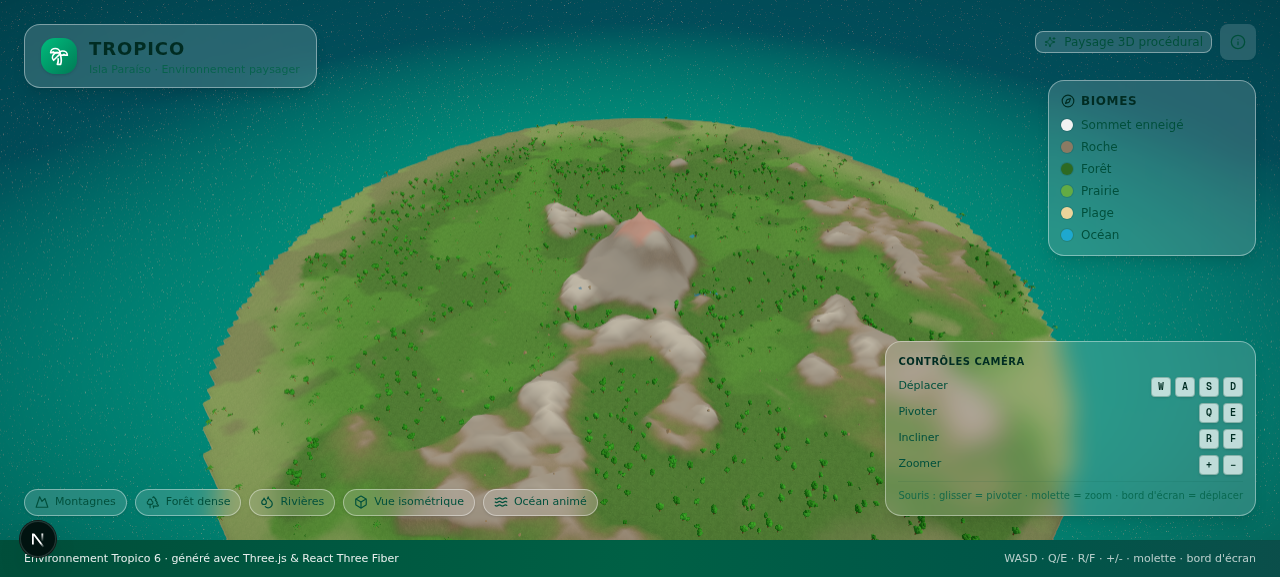
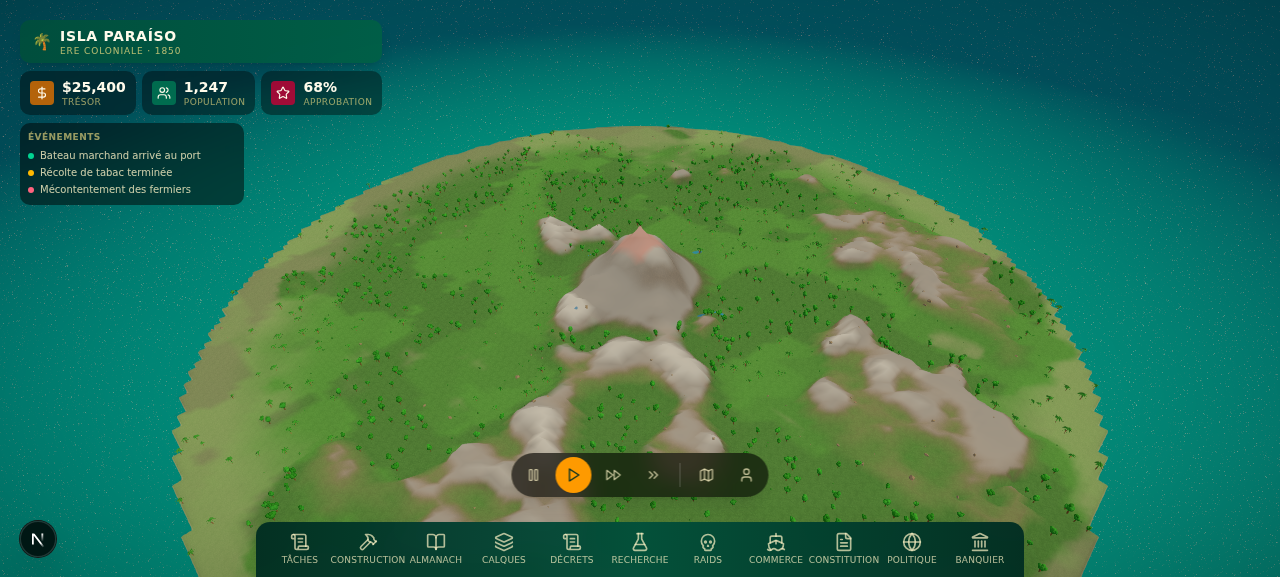
feat: complete Tropico 6-style HUD — stats, time controls, action bar
Removed all the old UI (biome legend, feature chips, camera controls
panel, sticky footer). Replaced with a full Tropico 6 HUD overlay:

TropicoHUD.tsx (new component):
- Top-left: island title (Isla Paraíso, Ere Coloniale 1850), 3 stat
  pills (Trésor $25,400, Population 1,247, Approbation 68%), and an
  events log (3 recent events with colored dots)
- Bottom-center: time controls (Pause / Play / x2 / x3) + Vue archipel
  + El Presidente buttons, dark pill with amber active state
- Bottom action bar: 11 icons (Tâches, Construction, Almanach, Calques,
  Décrets, Recherche, Raids, Commerce, Constitution, Politique, Banquier)
  in a horizontal scrollable dark green gradient bar
- Style: dark semi-transparent panels (black/40, emerald-950/95),
  tropical green/gold accents, backdrop-blur

page.tsx rewritten: just the 3D scene + TropicoHUD overlay (the HUD
buttons are placeholders for now — 'on les fera fonctionner après').

Fixed: ChevronDoubleRight doesn't exist in lucide-react -> ChevronsRight.

Verified via VLM: stats panel top-left, time controls bottom-center,
action bar bottom with all 11 icons, old UI gone, dark semi-transparent
panels with green/gold colors, no errors.

diff --git a/src/components/tropico/TropicoHUD.tsx b/src/components/tropico/TropicoHUD.tsx
@@ -1,0 +1,205 @@
+'use client'
+
+import { useState } from 'react'
+import {
+  Pause,
+  Play,
+  FastForward,
+  ChevronsRight,
+  Map as MapIcon,
+  User,
+  Hammer,
+  BookOpen,
+  Layers,
+  ScrollText,
+  FlaskConical,
+  Skull,
+  Ship,
+  FileText,
+  Globe,
+  Landmark,
+  DollarSign,
+  Users,
+  Star,
+} from 'lucide-react'
+
+/* -------------------------------------------------------------------------- */
+/*  Top-left stats panel (money, population, approval, events log)            */
+/* -------------------------------------------------------------------------- */
+
+function StatPill({ icon, value, label, accent }: { icon: React.ReactNode; value: string; label: string; accent: string }) {
+  return (
+    <div className="flex items-center gap-2 rounded-lg bg-black/40 px-2.5 py-1.5 backdrop-blur-sm">
+      <span className={`flex h-6 w-6 items-center justify-center rounded ${accent}`}>{icon}</span>
+      <div className="leading-tight">
+        <div className="text-sm font-bold text-amber-50">{value}</div>
+        <div className="text-[9px] uppercase tracking-wider text-amber-200/60">{label}</div>
+      </div>
+    </div>
+  )
+}
+
+function TopLeftStats() {
+  return (
+    <div className="pointer-events-auto absolute left-3 top-3 z-20 flex flex-col gap-2 sm:left-5 sm:top-5">
+      {/* Island title */}
+      <div className="flex items-center gap-2 rounded-lg bg-gradient-to-r from-emerald-900/90 to-emerald-800/90 px-3 py-1.5 shadow-lg backdrop-blur-sm">
+        <span className="text-base">🌴</span>
+        <div className="leading-tight">
+          <div className="text-sm font-extrabold tracking-wider text-amber-50">ISLA PARAÍSO</div>
+          <div className="text-[9px] uppercase tracking-widest text-amber-200/70">Ere Coloniale · 1850</div>
+        </div>
+      </div>
+      {/* Stats row */}
+      <div className="flex flex-wrap gap-1.5">
+        <StatPill
+          icon={<DollarSign className="h-3.5 w-3.5 text-amber-50" />}
+          value="$25,400"
+          label="Trésor"
+          accent="bg-amber-600/80"
+        />
+        <StatPill
+          icon={<Users className="h-3.5 w-3.5 text-amber-50" />}
+          value="1,247"
+          label="Population"
+          accent="bg-emerald-700/80"
+        />
+        <StatPill
+          icon={<Star className="h-3.5 w-3.5 text-amber-50" />}
+          value="68%"
+          label="Approbation"
+          accent="bg-rose-700/80"
+        />
+      </div>
+      {/* Events log */}
+      <div className="hidden w-56 rounded-lg bg-black/50 p-2 text-[10px] text-amber-100/80 backdrop-blur-sm sm:block">
+        <div className="mb-1 text-[9px] font-bold uppercase tracking-wider text-amber-200/60">Événements</div>
+        <ul className="space-y-0.5">
+          <li className="flex items-center gap-1.5">
+            <span className="h-1.5 w-1.5 flex-shrink-0 rounded-full bg-emerald-400" />
+            Bateau marchand arrivé au port
+          </li>
+          <li className="flex items-center gap-1.5">
+            <span className="h-1.5 w-1.5 flex-shrink-0 rounded-full bg-amber-400" />
+            Récolte de tabac terminée
+          </li>
+          <li className="flex items-center gap-1.5">
+            <span className="h-1.5 w-1.5 flex-shrink-0 rounded-full bg-rose-400" />
+            Mécontentement des fermiers
+          </li>
+        </ul>
+      </div>
+    </div>
+  )
+}
+
+/* -------------------------------------------------------------------------- */
+/*  Bottom-center time controls (pause / play / x2 / x3)                      */
+/* -------------------------------------------------------------------------- */
+
+const SPEEDS = [
+  { id: 'pause', icon: Pause, label: 'Pause' },
+  { id: '1x', icon: Play, label: 'Vitesse normale' },
+  { id: '2x', icon: FastForward, label: 'Accélération x2' },
+  { id: '3x', icon: ChevronsRight, label: 'Accélération x3' },
+] as const
+
+function TimeControls() {
+  const [speed, setSpeed] = useState<string>('1x')
+  return (
+    <div className="pointer-events-auto absolute bottom-16 left-1/2 z-20 flex -translate-x-1/2 items-center gap-1 rounded-full bg-black/60 p-1 shadow-lg backdrop-blur-md sm:bottom-20">
+      {SPEEDS.map((s) => {
+        const Icon = s.icon
+        const active = speed === s.id
+        return (
+          <button
+            key={s.id}
+            onClick={() => setSpeed(s.id)}
+            title={s.label}
+            className={`flex h-9 w-9 items-center justify-center rounded-full transition-colors ${
+              active
+                ? 'bg-amber-500 text-emerald-950 shadow'
+                : 'text-amber-100/70 hover:bg-white/10 hover:text-amber-50'
+            }`}
+          >
+            <Icon className="h-4 w-4" />
+          </button>
+        )
+      })}
+      <div className="mx-1 h-6 w-px bg-white/20" />
+      <button
+        title="Vue archipel"
+        className="flex h-9 w-9 items-center justify-center rounded-full text-amber-100/70 transition-colors hover:bg-white/10 hover:text-amber-50"
+      >
+        <MapIcon className="h-4 w-4" />
+      </button>
+      <button
+        title="El Presidente"
+        className="flex h-9 w-9 items-center justify-center rounded-full text-amber-100/70 transition-colors hover:bg-white/10 hover:text-amber-50"
+      >
+        <User className="h-4 w-4" />
+      </button>
+    </div>
+  )
+}
+
+/* -------------------------------------------------------------------------- */
+/*  Bottom action bar (construction, almanac, overlays, ...)                  */
+/* -------------------------------------------------------------------------- */
+
+const ACTIONS = [
+  { id: 'tasks', icon: ScrollText, label: 'Tâches' },
+  { id: 'build', icon: Hammer, label: 'Construction' },
+  { id: 'almanac', icon: BookOpen, label: 'Almanach' },
+  { id: 'overlays', icon: Layers, label: 'Calques' },
+  { id: 'edicts', icon: ScrollText, label: 'Décrets' },
+  { id: 'research', icon: FlaskConical, label: 'Recherche' },
+  { id: 'raids', icon: Skull, label: 'Raids' },
+  { id: 'trade', icon: Ship, label: 'Commerce' },
+  { id: 'constitution', icon: FileText, label: 'Constitution' },
+  { id: 'politics', icon: Globe, label: 'Politique' },
+  { id: 'broker', icon: Landmark, label: 'Banquier' },
+] as const
+
+function ActionBar() {
+  const [active, setActive] = useState<string | null>(null)
+  return (
+    <div className="pointer-events-auto absolute bottom-0 left-0 right-0 z-20">
+      <div className="mx-auto flex max-w-3xl items-center gap-0.5 overflow-x-auto rounded-t-xl bg-gradient-to-r from-emerald-950/95 via-emerald-900/95 to-emerald-950/95 px-2 py-1.5 shadow-2xl backdrop-blur-md sm:gap-1 sm:px-3">
+        {ACTIONS.map((a) => {
+          const Icon = a.icon
+          const isActive = active === a.id
+          return (
+            <button
+              key={a.id}
+              onClick={() => setActive(isActive ? null : a.id)}
+              title={a.label}
+              className={`flex min-w-[52px] flex-col items-center gap-0.5 rounded-lg px-1.5 py-1 transition-colors sm:min-w-[64px] ${
+                isActive
+                  ? 'bg-amber-500/90 text-emerald-950'
+                  : 'text-amber-100/70 hover:bg-white/10 hover:text-amber-50'
+              }`}
+            >
+              <Icon className="h-4 w-4 sm:h-5 sm:w-5" />
+              <span className="text-[8px] font-medium uppercase tracking-wide sm:text-[9px]">{a.label}</span>
+            </button>
+          )
+        })}
+      </div>
+    </div>
+  )
+}
+
+/* -------------------------------------------------------------------------- */
+/*  Main HUD                                                                   */
+/* -------------------------------------------------------------------------- */
+
+export function TropicoHUD() {
+  return (
+    <>
+      <TopLeftStats />
+      <TimeControls />
+      <ActionBar />
+    </>
+  )
+}

diff --git a/src/app/page.tsx b/src/app/page.tsx
@@ -1,21 +1,12 @@
 'use client'
 
 import dynamic from 'next/dynamic'
-import { useState } from 'react'
-import { Palmtree, Mountain, Waves, Trees, Sparkles, Compass, Info, Droplets, Box } from 'lucide-react'
-import { Badge } from '@/components/ui/badge'
-import { Button } from '@/components/ui/button'
-import {
-  Tooltip,
-  TooltipContent,
-  TooltipProvider,
-  TooltipTrigger,
-} from '@/components/ui/tooltip'
+import { TropicoHUD } from '@/components/tropico/TropicoHUD'
 
 const IslandScene = dynamic(() => import('@/components/tropico/IslandScene').then((m) => m.IslandScene), {
   ssr: false,
   loading: () => (
-    <div className="absolute inset-0 flex items-center justify-center bg-gradient-to-b from-[#bfe9f2] to-[#7fc6db]">
+    <div className="absolute inset-0 flex items-center justify-center bg-gradient-to-b from-[#87ceeb] to-[#b8d8e8]">
       <div className="flex flex-col items-center gap-3 text-emerald-900">
         <div className="h-10 w-10 animate-spin rounded-full border-4 border-emerald-200 border-t-emerald-600" />
         <p className="text-sm font-medium tracking-wide">Génération de l'île…</p>
@@ -24,159 +15,14 @@ const IslandScene = dynamic(() => import('@/components/tropico/IslandScene').the
   ),
 })
 
-const LEGEND = [
-  { label: 'Sommet enneigé', color: '#f2f2f2' },
-  { label: 'Roche', color: '#8a7a63' },
-  { label: 'Forêt', color: '#2d6a22' },
-  { label: 'Prairie', color: '#62ab44' },
-  { label: 'Plage', color: '#ecd49a' },
-  { label: 'Océan', color: '#1ea8cf' },
-]
-
 export default function Home() {
-  const [showLegend, setShowLegend] = useState(true)
-
   return (
-    <div className="relative flex h-screen w-full flex-col overflow-hidden bg-[#bfe9f2]">
+    <div className="relative h-screen w-full overflow-hidden bg-[#87ceeb]">
       {/* 3D viewport */}
-      <div className="relative flex-1">
-        <IslandScene />
+      <IslandScene />
 
-        {/* Top HUD */}
-        <header className="pointer-events-none absolute inset-x-0 top-0 z-10 flex items-start justify-between gap-3 p-4 sm:p-6">
-          <div className="pointer-events-auto flex items-center gap-3 rounded-2xl border border-white/40 bg-white/15 px-4 py-2.5 shadow-lg backdrop-blur-md">
-            <div className="flex h-9 w-9 items-center justify-center rounded-xl bg-gradient-to-br from-emerald-500 to-emerald-700 text-white shadow">
-              <Palmtree className="h-5 w-5" />
-            </div>
-            <div className="leading-tight">
-              <h1 className="text-base font-extrabold tracking-wider text-emerald-950 sm:text-lg">
-                TROPICO
-              </h1>
-              <p className="text-[11px] font-medium text-emerald-800/80">
-                Isla Paraíso · Environnement paysager
-              </p>
-            </div>
-          </div>
-
-          <div className="pointer-events-auto flex items-center gap-2">
-            <Badge
-              variant="secondary"
-              className="hidden border-white/40 bg-white/15 text-emerald-900 backdrop-blur-md sm:flex"
-            >
-              <Sparkles className="mr-1 h-3.5 w-3.5" />
-              Paysage 3D procédural
-            </Badge>
-            <TooltipProvider delayDuration={150}>
-              <Tooltip>
-                <TooltipTrigger asChild>
-                  <Button
-                    variant="secondary"
-                    size="icon"
-                    onClick={() => setShowLegend((v) => !v)}
-                    className="border-white/40 bg-white/15 text-emerald-900 backdrop-blur-md hover:bg-white/30"
-                    aria-label="Afficher la légende"
-                  >
-                    <Info className="h-4 w-4" />
-                  </Button>
-                </TooltipTrigger>
-                <TooltipContent>Légende du terrain</TooltipContent>
-              </Tooltip>
-            </TooltipProvider>
-          </div>
-        </header>
-
-        {/* Legend card */}
-        {showLegend && (
-          <aside className="pointer-events-auto absolute right-4 top-20 z-10 w-52 rounded-2xl border border-white/40 bg-white/15 p-3 shadow-lg backdrop-blur-md sm:right-6">
-            <p className="mb-2 flex items-center gap-1.5 text-xs font-bold uppercase tracking-wider text-emerald-950">
-              <Compass className="h-3.5 w-3.5" /> Biomes
-            </p>
-            <ul className="space-y-1.5">
-              {LEGEND.map((l) => (
-                <li key={l.label} className="flex items-center gap-2 text-xs text-emerald-900">
-                  <span
-                    className="h-3 w-3 flex-shrink-0 rounded-sm ring-1 ring-black/10"
-                    style={{ backgroundColor: l.color }}
-                  />
-                  {l.label}
-                </li>
-              ))}
-            </ul>
-          </aside>
-        )}
-
-        {/* Feature chips (bottom-left) */}
-        <div className="pointer-events-none absolute bottom-4 left-4 z-10 flex flex-wrap gap-2 sm:bottom-6 sm:left-6">
-          <FeatureChip icon={<Mountain className="h-3.5 w-3.5" />} label="Montagnes" />
-          <FeatureChip icon={<Trees className="h-3.5 w-3.5" />} label="Forêt dense" />
-          <FeatureChip icon={<Droplets className="h-3.5 w-3.5" />} label="Rivières" />
-          <FeatureChip icon={<Box className="h-3.5 w-3.5" />} label="Vue isométrique" />
-          <FeatureChip icon={<Waves className="h-3.5 w-3.5" />} label="Océan animé" />
-        </div>
-
-        {/* Camera controls panel (bottom-right) — Tropico 6 style */}
-        <aside className="pointer-events-auto absolute bottom-4 right-4 z-10 hidden rounded-2xl border border-white/40 bg-white/15 p-3 shadow-lg backdrop-blur-md sm:block md:bottom-6 md:right-6">
-          <p className="mb-2 text-[10px] font-bold uppercase tracking-wider text-emerald-950">
-            Contrôles caméra
-          </p>
-          <ul className="space-y-1.5 text-[11px] text-emerald-900">
-            <li className="flex items-center justify-between gap-3">
-              <span>Déplacer</span>
-              <KeyCombo keys={['W', 'A', 'S', 'D']} />
-            </li>
-            <li className="flex items-center justify-between gap-3">
-              <span>Pivoter</span>
-              <KeyCombo keys={['Q', 'E']} />
-            </li>
-            <li className="flex items-center justify-between gap-3">
-              <span>Incliner</span>
-              <KeyCombo keys={['R', 'F']} />
-            </li>
-            <li className="flex items-center justify-between gap-3">
-              <span>Zoomer</span>
-              <KeyCombo keys={['+', '−']} />
-            </li>
-            <li className="mt-1 border-t border-emerald-900/10 pt-1.5 text-[10px] text-emerald-800/80">
-              Souris : glisser = pivoter · molette = zoom · bord d'écran = déplacer
-            </li>
-          </ul>
-        </aside>
-      </div>
-
-      {/* Sticky footer */}
-      <footer className="z-20 flex flex-col items-center justify-between gap-2 border-t border-emerald-900/10 bg-gradient-to-r from-emerald-900 via-emerald-800 to-teal-900 px-4 py-2.5 text-white/90 sm:flex-row sm:px-6">
-        <p className="text-center text-[11px] font-medium sm:text-left">
-          Environnement Tropico 6 · généré avec Three.js & React Three Fiber
-        </p>
-        <p className="flex items-center gap-2 text-[11px] text-white/70">
-          <span className="hidden sm:inline">WASD · Q/E · R/F · +/- · molette · bord d'écran</span>
-          <span className="sm:hidden">Touchez pour explorer</span>
-        </p>
-      </footer>
+      {/* Tropico 6-style HUD overlay (stats, time controls, action bar) */}
+      <TropicoHUD />
     </div>
-  )
-}
-
-function FeatureChip({ icon, label }: { icon: React.ReactNode; label: string }) {
-  return (
-    <span className="pointer-events-auto inline-flex items-center gap-1.5 rounded-full border border-white/40 bg-white/15 px-2.5 py-1 text-[11px] font-medium text-emerald-900 shadow backdrop-blur-md">
-      {icon}
-      {label}
-    </span>
-  )
-}
-
-function KeyCombo({ keys }: { keys: string[] }) {
-  return (
-    <span className="flex items-center gap-1">
-      {keys.map((k, i) => (
-        <kbd
-          key={i}
-          className="inline-flex h-5 min-w-5 items-center justify-center rounded border border-emerald-900/30 bg-white/70 px-1 font-mono text-[10px] font-semibold text-emerald-950 shadow-sm"
-        >
-          {k}
-        </kbd>
-      ))}
-    </span>
   )
 }